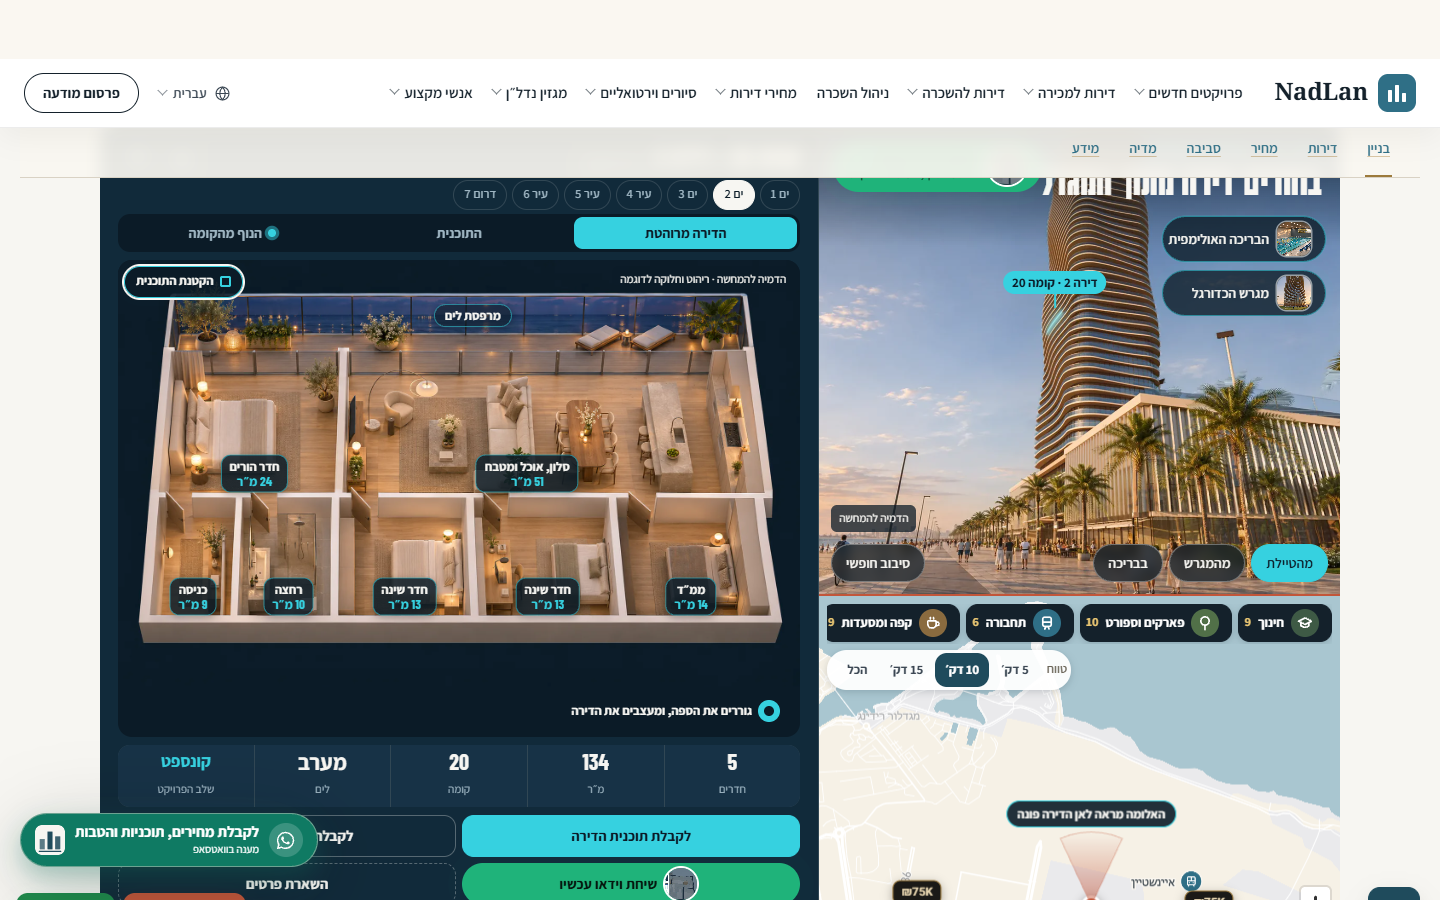
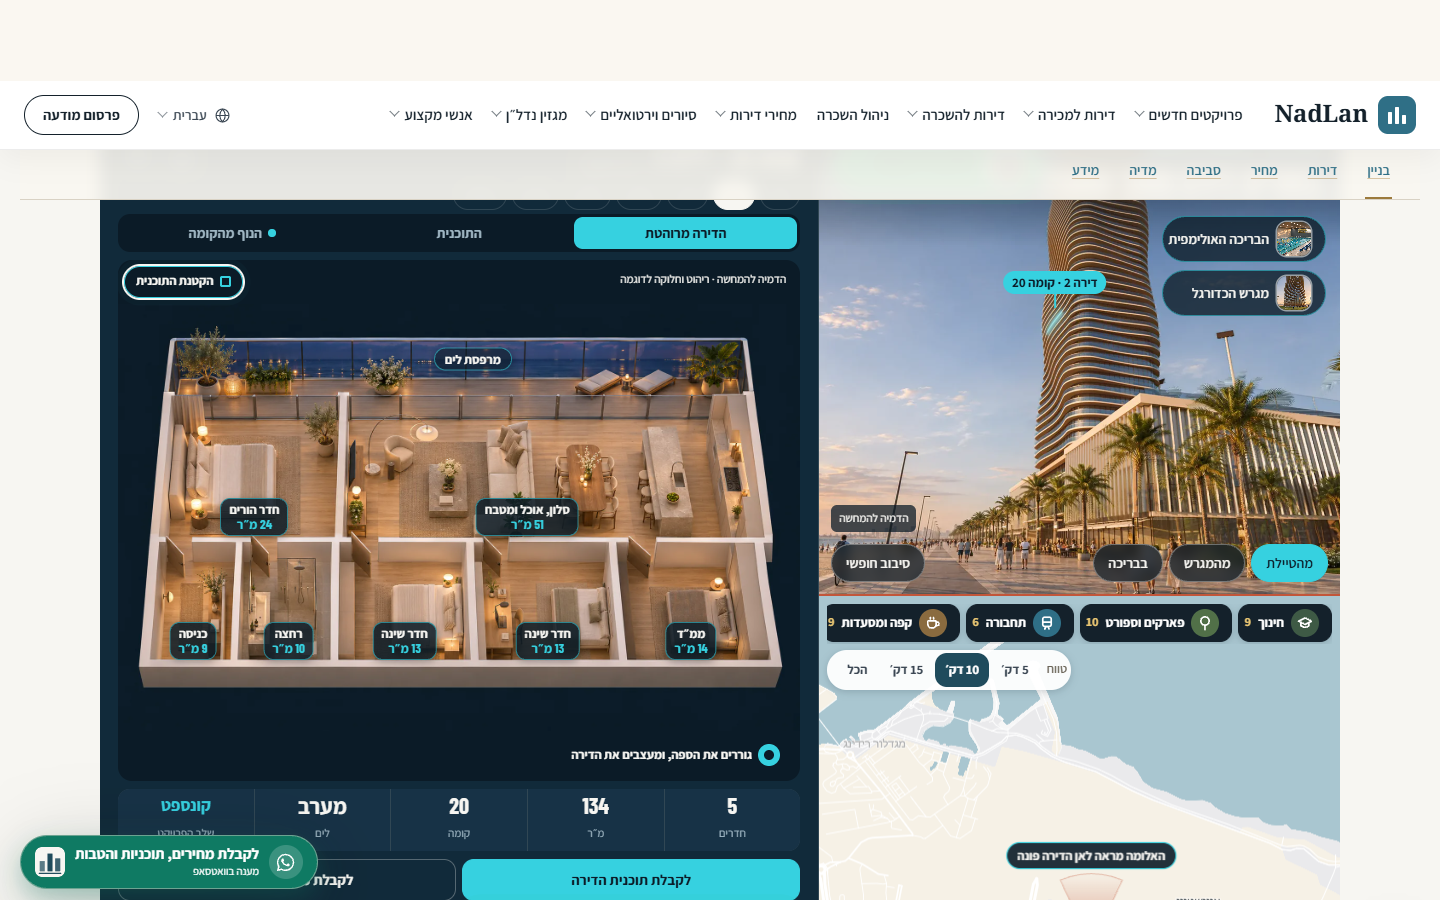
HAD-810 step 2c (c) LOCAL, not released: furnished plans 3/5/6 rooms with room names + m2 (sample data, planRooms), opening large (desktop: panel widens beside the tower; phones: full width, numbered rooms + list); press_plan 0 BAD at 360/390/1280/1440, press3 regression 0 BAD; board ROUND 762

Changed region(s): [[0.0, 0.3111, 1.0, 1.0], [0.0312, 0.0622, 1.0, 0.2489]]

diff --git a/plugins/nadlan-config/assets/aurelia-viewer/showroom.js b/plugins/nadlan-config/assets/aurelia-viewer/showroom.js
@@ -360,8 +360,10 @@
     var f = S.sel; m.dataset.tab = tab;
     Array.prototype.forEach.call(S.el.querySelectorAll('.pn-tabs [data-tab]'), function (b) { b.setAttribute('aria-selected', String(b.dataset.tab === tab)); });
     if (tab === 'cut' && cutImg(f)) {
-      m.innerHTML = '<div class="pn-cut"><img alt="הדירה מרוהטת, מבט מלמעלה: ' + f.r + ' חדרים" src="' + esc(cutImg(f)) + '"></div>' + keyplan(f) +
+      var cl = cutLabels(f);
+      m.innerHTML = '<div class="pn-cut" style="--ar:' + (cl ? cl.ar : 1.6) + '"><div class="pn-cutbox"><img alt="הדירה מרוהטת, מבט מלמעלה: ' + f.r + ' חדרים" src="' + esc(cutImg(f)) + '">' + (cl ? cl.on : '') + '</div></div>' + keyplan(f) +
         '<div class="pn-sim">הדמיה להמחשה · ריהוט וחלוקה לדוגמה</div>' +
+        (cl ? '<button type="button" class="pn-bigbtn" data-a="planbig" aria-expanded="' + S.el.classList.contains('nlas-planbig') + '"><i></i><span>' + (S.el.classList.contains('nlas-planbig') ? 'הקטנת התוכנית' : 'התוכנית בגדול, עם המידות') + '</span></button>' + cl.leg : '') +
         '<a class="pn-drag" href="' + esc(designerUrl(f)) + '" data-a="designer"><i class="hand"></i><span>גוררים את הספה, ומעצבים את הדירה</span></a>';
       dragDemo(m);
     } else if (tab === 'plan' || tab === 'cut') {
@@ -379,6 +381,7 @@
       tags().then(function () { drawTags(f); }).catch(function () {});
     }
     if (tab !== 'view') viewBig(null);
+    if (tab !== 'cut' && S.el.classList.contains('nlas-planbig')) planBig(false);
   }
   /* desktop: the view from the floor opens large under the tower and the panel (the tower and his map stay where they are) */
   function viewBig(f) {
@@ -449,6 +452,47 @@
   function loadVal() { return VAL || (VAL = fetch((C.instruments || '') + 'data/value.json?ver=' + encodeURIComponent(V)).then(function (r) { return r.json(); })); }
 
   /* the plan: a furnished sample layout from the flat's real size and side (the window side on top) */
+  /* step 2c: the rooms of the sample plan (the same split planSvg draws): name, kind, m² (sample data) */
+  function planRooms(f) {
+    var w = f.w, d = f.d, bal = 2.1, n = f.r, rooms = [];
+    var front = +(d * .56).toFixed(2), back = +(d - front).toFixed(2);
+    var mw = n >= 4 ? Math.min(5.2, w * .34) : n === 3 ? Math.min(3.8, w * .4) : 0;
+    rooms.push({ w: w - mw, h: front, n: n >= 6 ? 'סלון ופינת אוכל' : 'סלון, אוכל ומטבח', t: 'liv' });
+    if (mw) rooms.push({ w: mw, h: front, n: 'חדר הורים', t: 'master' });
+    var list = [{ n: 'ממ״ד', w: 3.4, t: 'mmd' }], beds = Math.max(0, n - (mw ? 3 : 2));
+    for (var i = 0; i < beds; i++) list.push({ n: 'חדר שינה', w: 3.3, t: 'bed' });
+    if (n >= 6) list.push({ n: 'מטבח', w: 4.2, t: 'kit' });
+    list.push({ n: 'רחצה', w: 2.4, t: 'bath' }); list.push({ n: 'כניסה', w: 2.2, t: 'entry' });
+    var sum = list.reduce(function (a, r) { return a + r.w; }, 0);
+    list.forEach(function (r) { rooms.push({ w: r.w * w / sum, h: back, n: r.n, t: r.t }); });
+    rooms.forEach(function (r) { r.a = Math.round(r.w * r.h); });
+    return rooms;
+  }
+  /* where each room sits on the furnished pictures (percent of the picture, rooms in planRooms order; the balcony last).
+     Measured by eye on img/cut-r3|r5|r6-1280.webp: the pictures were drawn from the same plans (D:/Media/Aurelia/v4/cut/plan-*.png) */
+  var CUTLAB = {
+    3: { ar: 1280 / 801, at: [[58, 56], [24, 56], [64, 83], [40, 83], [23, 83]], bal: [62, 16] },
+    5: { ar: 1280 / 801, at: [[60, 50], [20, 50], [84, 79], [63, 79], [42, 79], [25, 79], [11, 79]], bal: [52, 13] },
+    6: { ar: 1280 / 480, at: [[52, 50], [10, 47], [90, 80], [76, 80], [61, 80], [46, 80], [30, 80], [16, 80], [6, 80]], bal: [50, 23] }
+  };
+  function cutLabels(f) {
+    var L = CUTLAB[f.r]; if (!L) return '';
+    var R = planRooms(f);
+    var o = R.map(function (r, i) { var a = L.at[i]; return a ? '<span class="pn-room" style="left:' + a[0] + '%;top:' + a[1] + '%"><i>' + (i + 1) + '</i><b>' + esc(r.n) + '</b><em>' + r.a + ' מ״ר</em></span>' : ''; }).join('');
+    o += '<span class="pn-room bal" style="left:' + L.bal[0] + '%;top:' + L.bal[1] + '%"><b>' + (f.sea ? 'מרפסת לים' : 'מרפסת') + '</b></span>';
+    var leg = '<ol class="pn-legend">' + R.map(function (r) { return '<li><b>' + esc(r.n) + '</b> ' + r.a + ' מ״ר</li>'; }).join('') + '</ol>';
+    return { on: o, leg: leg, ar: L.ar };
+  }
+  /* the furnished plan opens large: desktop = the panel column widens beside the tower (the tower and his map stay); phones = the
+     picture across the width with numbered rooms and their list under it */
+  function planBig(on) {
+    if (!S.el) return;
+    var was = S.el.classList.contains('nlas-planbig'); on = !!on;
+    S.el.classList.toggle('nlas-planbig', on);
+    var b = $p('[data-a="planbig"]'); if (b) { b.setAttribute('aria-expanded', String(on)); b.querySelector('span').textContent = on ? 'הקטנת התוכנית' : 'התוכנית בגדול, עם המידות'; }
+    if (was !== on) { layout(); redraw(); setTimeout(function () { layout(); redraw(); placeTags(); mapResize(); if (S.sel) showBeam(S.sel.b); }, 380); track('aurelia_plan_big', { on: on }); }
+    if (on) setTimeout(function () { var m = $p('.pn-media'), r = m && m.getBoundingClientRect(); if (r && (r.top < (PHONE() ? 60 : 120) || r.bottom > barTop() - 8)) reveal(m); }, PHONE() ? 60 : 400);
+  }
   function planSvg(f, cls) {
     var w = f.w, d = f.d, bal = 2.1, n = f.r, rooms = [];
     var front = +(d * .56).toFixed(2), back = +(d - front).toFixed(2);
@@ -875,7 +919,8 @@
 
   /* ---------------------------------------------------------------- clicks */
   function onClick(e) {
-    var t = e.target.closest('[data-a],[data-fac],[data-view],[data-fl],[data-unit],[data-tab],[data-place],.nlas-free'); if (!t || !S.el.contains(t)) return;
+    var t = e.target.closest('[data-a],[data-fac],[data-view],[data-fl],[data-unit],[data-tab],[data-place],.nlas-free,.pn-cutbox'); if (!t || !S.el.contains(t)) return;
+    if (t.classList.contains('pn-cutbox')) { if (!S.el.classList.contains('nlas-planbig')) planBig(true); return; }
     var a = t.dataset.a, f = S.sel;
     if (t.classList.contains('nlas-free')) { var bld = document.getElementById('building'), on = !bld.classList.contains('nlas-free'); bld.classList.toggle('nlas-free', on); t.setAttribute('aria-pressed', String(on)); return; }
     if (t.dataset.view) { setView(t.dataset.view); track('aurelia_view', { view: t.dataset.view }); return; }
@@ -892,10 +937,11 @@
     if (a === 'callback') { e.preventDefault(); track('aurelia_call_back', {}); toForm('אשמח שתחזרו אליי לשיחת וידאו על אורליה ספורט' + (f ? ', דירה ' + f.u + ' בקומה ' + f.f : '') + '. שעה נוחה: '); return; }
     if (a === 'lead') { e.preventDefault(); track('aurelia_lead_click', f ? { floor: f.f, unit: f.u } : {}); toForm(f ? 'אשמח לפרטים על דירה ' + f.u + ' בקומה ' + f.f + ' באורליה ספורט (' + f.r + ' חדרים, פונה ' + DIRS[f.b] + ').' : 'אשמח לפרטים על אורליה ספורט.'); return; }
     if (a === 'pricelist') { e.preventDefault(); track('aurelia_pricelist', f ? { floor: f.f, unit: f.u } : {}); toForm('אשמח לקבל את המחירון של אורליה ספורט כשייפתח' + (f ? ', ובמיוחד לדירה ' + f.u + ' בקומה ' + f.f : '') + '.'); return; }
-    if (a === 'toplan') { e.preventDefault(); if ($p('.pn-media')) { media(cutImg(f) ? 'cut' : 'plan'); reveal($p('.pn-media')); } track('aurelia_band_plan', f ? { floor: f.f, unit: f.u } : {}); return; }
+    if (a === 'toplan') { e.preventDefault(); if ($p('.pn-media')) { media(cutImg(f) ? 'cut' : 'plan'); if (cutImg(f) && CUTLAB[f.r]) planBig(true); else reveal($p('.pn-media')); } track('aurelia_band_plan', f ? { floor: f.f, unit: f.u } : {}); return; }
     if (a === 'plan-wa') { track('aurelia_plan_request', { floor: f.f, unit: f.u }); return; }
     if (a === 'designer') { track('aurelia_designer', f ? { floor: f.f, unit: f.u } : {}); return; }
     if (a === 'intro') { e.preventDefault(); if (S.view !== 'street') setView('street'); if (S.sel) { openFlat(S.sel, false); } else intro(); return; }
+    if (a === 'planbig') { planBig(!S.el.classList.contains('nlas-planbig')); return; }
     if (a === 'vbclose') { viewBig(null); return; }
     if (a === 'tagx') { Array.prototype.forEach.call(S.el.querySelectorAll('.pn-tagcard'), function (c) { c.hidden = true; }); Array.prototype.forEach.call(S.el.querySelectorAll('.pn-tag.on'), function (x) { x.classList.remove('on'); }); return; }
     if (a === 'onmap' || a === 'nearplace') { var p = T && T.places[Number(t.dataset.place)]; if (p) { mapFocus(p, true); track('aurelia_place_map', { place: p.n }); } return; }

diff --git a/plugins/nadlan-config/assets/aurelia-viewer/showroom.css b/plugins/nadlan-config/assets/aurelia-viewer/showroom.css
@@ -375,3 +375,45 @@
 }
 /* desktop: the walking range sits at the map's top-left, away from the site's accessibility button at the bottom-right corner */
 @media (min-width: 901px) { .nlas .nlas-mapslot.compact #nlpjx-map > .nlam-range { right: auto; left: 8px; } }
+/* ---------------------------------------------------------------- step 2c (HAD-810): the furnished plan with room names and sizes, large */
+.nlas .pn-cut { container-type: size; }
+.nlas .pn-cutbox { position: absolute; left: 50%; top: 50%; transform: translate(-50%, -50%); width: min(100cqw, calc(100cqh * var(--ar, 1.6))); aspect-ratio: var(--ar, 1.6); cursor: zoom-in; }
+.nlas .pn-cutbox img { position: absolute; inset: 0; width: 100%; height: 100%; object-fit: fill; margin: 0; max-width: none; border-radius: 0; }
+.nlas .pn-room { position: absolute; transform: translate(-50%, -50%); display: none; align-items: center; gap: 6px; white-space: nowrap; pointer-events: none;
+  background: rgba(11, 27, 39, .84); color: var(--off); border: 1px solid rgba(54, 209, 224, .55); border-radius: 999px; padding: 3px 10px 3px 4px; font: 600 12.5px/1.2 Assistant, sans-serif; box-shadow: 0 2px 8px rgba(0, 0, 0, .3); }
+.nlas .pn-room i { font: 700 12px/20px "Barlow Condensed", Assistant, sans-serif; font-style: normal; width: 20px; height: 20px; border-radius: 50%; background: var(--aqua); color: var(--navy); text-align: center; }
+.nlas .pn-room b { font-weight: 700; }
+.nlas .pn-room em { font-style: normal; color: var(--aqua); font: 700 13px/1 "Barlow Condensed", Assistant, sans-serif; }
+.nlas .pn-room.bal { padding: 3px 10px; background: rgba(11, 27, 39, .6); }
+.nlas.nlas .pn-bigbtn { position: absolute; left: 6px; top: 6px; z-index: 3; display: inline-flex; align-items: center; gap: 7px; min-height: 32px; padding: 3px 11px !important; border-radius: 999px !important;
+  border: 1px solid var(--aqua) !important; background: rgba(11, 27, 39, .86) !important; color: var(--off) !important; font: 700 12.5px/1 Assistant, sans-serif !important; cursor: pointer; animation: nlasGlow 2.2s 3; }
+.nlas .pn-bigbtn i { width: 11px; height: 11px; border: 2px solid var(--aqua); border-radius: 2px; }
+.nlas .pn-legend { display: none; }
+.nlas .pn-media[data-tab="cut"] .pn-keyw + .pn-sim { z-index: 3; }
+.nlas.nlas-planbig .pn-media[data-tab="cut"] { height: auto; max-height: none; display: flex; flex-direction: column; }
+.nlas.nlas-planbig .pn-media[data-tab="cut"] .pn-cut { margin-top: 44px; } /* the note and the button sit above the picture */
+.nlas.nlas-planbig .pn-media[data-tab="cut"] .pn-cut { position: relative; inset: auto; width: 100%; container-type: normal; flex: none; }
+.nlas.nlas-planbig .pn-cutbox { cursor: default; position: relative; left: auto; top: auto; transform: none; width: 100%; }
+.nlas.nlas-planbig .pn-room { display: inline-flex; }
+.nlas.nlas-planbig .pn-media[data-tab="cut"] .pn-keyw { display: none; }
+.nlas.nlas.nlas-planbig .pn-media[data-tab="cut"] .pn-drag { position: static; align-self: flex-start; margin: 8px 10px 10px; transform: none; }
+/* desktop: the panel column widens beside the tower; names and sizes on the rooms */
+@media (min-width: 901px) {
+  .nlas.nlas-planbig .nlas-grid { grid-template-columns: minmax(0, 1fr) min(780px, 58%); }
+  .nlas.nlas-planbig .pn-flat .pn-media[data-tab="cut"] { height: auto; max-height: none; }
+  .nlas.nlas-planbig .pn-room i { display: none; }
+  .nlas.nlas-planbig .pn-room:not(.bal) { flex-direction: column; gap: 1px; border-radius: 10px; padding: 3px 8px 4px; text-align: center; }
+  .nlas .nlas-grid { transition: grid-template-columns .35s ease; }
+}
+/* phones: the picture across the width, numbered rooms, their list under it */
+@media (max-width: 900px) {
+  .nlas.nlas-planbig .pn-media[data-tab="cut"] { margin-inline: -14px; border-radius: 0; }
+  .nlas.nlas-planbig .pn-room { padding: 0; border: 0; background: none; box-shadow: none; }
+  .nlas.nlas-planbig .pn-room i { box-shadow: 0 0 0 2px rgba(11, 27, 39, .8); }
+  .nlas.nlas-planbig .pn-room:not(.bal) b, .nlas.nlas-planbig .pn-room em { display: none; }
+  .nlas.nlas-planbig .pn-room.bal { padding: 2px 8px; background: rgba(11, 27, 39, .6); font-size: 11.5px; }
+  .nlas.nlas-planbig .pn-legend { display: grid; grid-template-columns: 1fr 1fr; gap: 4px 14px; margin: 8px 14px 0; padding: 0; list-style: none; counter-reset: rm; font-size: 13.5px; color: var(--off); }
+  .nlas.nlas.nlas-planbig .pn-legend li { counter-increment: rm; display: block; line-height: 1.35 !important; margin: 0 !important; padding: 0 !important; list-style: none; font-size: 13.5px !important; }
+  .nlas.nlas-planbig .pn-legend li::before { content: counter(rm); display: inline-block; margin-inline-end: 6px; vertical-align: 1px; font: 700 12px/18px "Barlow Condensed", Assistant, sans-serif; width: 18px; height: 18px; border-radius: 50%; background: var(--aqua); color: var(--navy); text-align: center; }
+  .nlas.nlas-planbig .pn-legend li b { color: var(--off); }
+}

diff --git a/docs/research/2026-11-23-aurelia-live/showroom/board-761/board.html b/docs/research/2026-11-23-aurelia-live/showroom/board-761/board.html
@@ -45,6 +45,21 @@ video { width: 100%; max-width: 330px; border-radius: 16px; border: 1px solid va
   <p class="lead">כל מסגרת כאן צולמה מהקוד האמיתי, על העמוד החי עם הקוד החדש מוזרק (טלפון 390 על 844, ושולחן 1440). נוגעים במרפסת, האלומה על המפה פונה מיד לכיוון החלון, הדירה נשלפת מהמגדל ונפתחת לתוכנית, ונוחתים בקוקפיט במסך אחד, בלי גלילה ובלי כרטיסים.</p>
 
   <section>
+    <div class="k">ROUND 762 · BEFORE RELEASE · 24.11.2026</div>
+    <h2>התוכנית המרוהטת עם שמות החדרים והשטחים, בגדול</h2>
+    <p class="lead">לדירות לדוגמה של 3, 5 ו-6 חדרים: כל חדר מסומן בשמו ובשטחו (אותה חלוקה כמו התוכנית המצוירת, נתוני דוגמה). בשולחן הפאנל מתרחב ליד המגדל, והמגדל והמפה נשארים במקום. בטלפון התמונה לרוחב המסך, החדרים ממוספרים והרשימה מתחת. אותה פלטה ואותן אותיות של חדר התצוגה (כחול ים עמוק, טורקיז הבריכה, Karantina ו-Assistant), לא מראה ברירת מחדל.</p>
+    <div class="cmp" style="grid-template-columns:repeat(2,minmax(0,1fr))">
+      <figure><img src="img/c4-d-plan5.jpg" alt="שולחן, 5 חדרים"><figcaption>שולחן: "התוכנית בגדול, עם המידות" על התמונה, או נגיעה בתמונה. שם ושטח על כל חדר, "מרפסת לים" על המרפסת.</figcaption></figure>
+      <figure><img src="img/c5-d-plan6.jpg" alt="שולחן, 6 חדרים"><figcaption>הדירה של 6 חדרים בקומה 46: תשעה חדרים ומרפסת, אף תווית לא עולה על אחרת.</figcaption></figure>
+    </div>
+    <div class="row" style="margin-top:14px">
+      <div class="fr"><img src="img/c1-390-plan5.jpg" alt="טלפון, 5 חדרים"><b>01 · טלפון, 5 חדרים</b><span>"תוכנית הדירה" בפס העובדות פותח אותה ישר בגדול: מספרים על החדרים, הרשימה מתחת.</span></div>
+      <div class="fr"><img src="img/c2-390-plan6.jpg" alt="טלפון, 6 חדרים"><b>02 · 6 חדרים</b><span>התמונה הרחבה לכל רוחב המסך.</span></div>
+      <div class="fr"><img src="img/c3-360-plan3.jpg" alt="טלפון קטן, 3 חדרים"><b>03 · 3 חדרים, טלפון קטן</b><span>אותו דבר במסך 360.</span></div>
+    </div>
+  </section>
+
+  <section>
     <div class="k">ROUND 761 · BEFORE RELEASE · 24.11.2026</div>
     <h2>הנוף בגדול בשולחן, והפסים של האתר לא חותכים טקסט</h2>
     <p class="lead">צולם מהקוד החדש על העמוד החי (טלפון 360 ו-390, שולחן 1280 על 720, 1440 על 900 ו-1920 על 1080). אותה פלטה ואותן אותיות: כחול ים עמוק, טורקיז הבריכה, אלומת הטרקוטה של המפה, Karantina ו-Assistant, מהבריכה ומלוח התוצאות של המגרש, לא מראה ברירת מחדל.</p>
